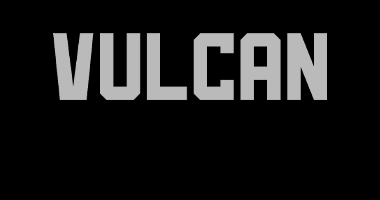
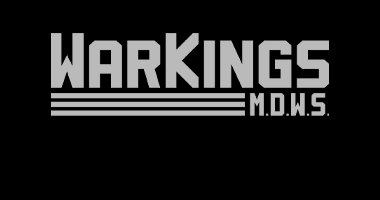
Vulcan --> WarKings

Changed region(s): [[0.1158, 0.15, 0.8684, 0.6]]

diff --git a/WarKings.html b/WarKings.html
@@ -6,7 +6,7 @@
 <!--PAGE PROPERTIES-->   
 <!------------------------------------------>
 <head>
-	<title>Project Vulcan</title>
+	<title>WarKings, M.D.W.S.</title>
 	<meta charset="utf-8">
 	<link rel="stylesheet" type="text/css" href="Style_c02.css">
     <link rel="shortcut icon" href="/images/websiteicon.png" type="image/x-icon" />
@@ -20,11 +20,11 @@
 <!------------------------------------------>
 <!-- PAGE TITLE -->   
 <!------------------------------------------>
-<!-- header>    
+<header>    
     <div id="niceimg">
-        <img alt="Header IMG" src="images/Cover_Vulcan.jpg"/>
+        <img alt="Header IMG" src="images/Cover_WarKings.jpg"/>
     </div>
-</header -->
+</header>
     
 <!------------------------------------------>
 <!--SOCIAL MEDIA LINKS-->   
@@ -51,14 +51,14 @@
  
         <div id="GameInfo">
             
-            <h1>"Name TBD"</h1>
+            <h1>"WarKings, M.D.W.S."</h1>
             <p>Genre: Turn-Based-Tactics</p>
             <p>CodeName: Project Vulcan</p>
             <hr>
             <p>Inspired by Advances Wars with the combat mechanics of a modern CRPG! Gridless movement and trajectory based abilities.</p>
             <p>Manage your army and structures, position your squads to out-strategise your opponent.</p>
             <br>
-            <p>Project Vulcan is played Online Multiplayer, Coop and PvP. And will probably release as Early Access in 2025, with a playable demo before that.</p>
+            <p>WarKings is played Online Multiplayer, Coop and PvP. And will probably release as Early Access in 2025, with a playable demo before that.</p>
             <p>The game will have factions and commanders to choose from. And a series of environments to play in. The environment will be dynamically destructible.</p>
             <br>
             <p>This game will have 2 main game-modes: "War Scenarios" and "Skirmishes".</p>
@@ -67,7 +67,7 @@
                 <li>Skirmishes: 2-4 players PvP. Classic battles between factions.</li>
             </ul>   
             <br>      
-            <p>Project Vulcan will first release on PC (Steam/SteamDeck and Epic Game Store). It will eventually also release for the Nintendo Switch, PlayStation, and Xbox.</p>   
+            <p>WarKings will first release on PC (Steam/SteamDeck and Epic Game Store). It will eventually also release for the Nintendo Switch, PlayStation, and Xbox.</p>   
             <br>
             <p>VIDEO OF PROTOTYPE 1 (22 January 2025)</p>
             <p>It is of the Skirmishes game mode, played 1v1.</p>
@@ -81,11 +81,11 @@
         <hr>
 
         <div id="GameInfo">
-            <p>Project Vulcan is currently in Pre-Production. I have recently finished working on a minimum-scope prototype I'm super happy with (the stuff in the video above).</p>
+            <p>WarKings is currently in Pre-Production. I have recently finished working on a minimum-scope prototype I'm super happy with (the stuff in the video above).</p>
             <p>I will now begin work on a nice-looking Game Demo. Mainly to find the usability and audio-visual targets. I will also create a Computer Player to play with and against.</p>
             <p>With the Game Demo I will also decide the game's actual name, and will publish its Steam and Epic Game Store pages.</p>
             <p>But I don't plan to stop there! Prototype 1 was about the minimum scope. I still have a lot of ideas and systems I want to try out and play with. So after Game Demo 1 is done I will continue with a Prototype 2 with a larger scope.</p>
-            <p>If you would like to support and be part of Project Vulcan's development, I've setup a patreon page you can join: <a href="https://www.patreon.com/BenerotEmpire">"Patreon.com/BenerotEmpire"</a></p>
+            <p>If you would like to support and be part of WarKings' development, I've setup a patreon page you can join: <a href="https://www.patreon.com/BenerotEmpire">"Patreon.com/BenerotEmpire"</a></p>
         </div>
 
         

diff --git a/index.html b/index.html
@@ -63,7 +63,7 @@
     </div>
 <!--PROJECT VULCAN--> 
     <div id="Project_Vulcan">
-        <a href="project_vulcan.html" target="_self">
+        <a href="WarKings.html" target="_self">
             <div class="card" id="C02"></div>
         </a>
     </div>
